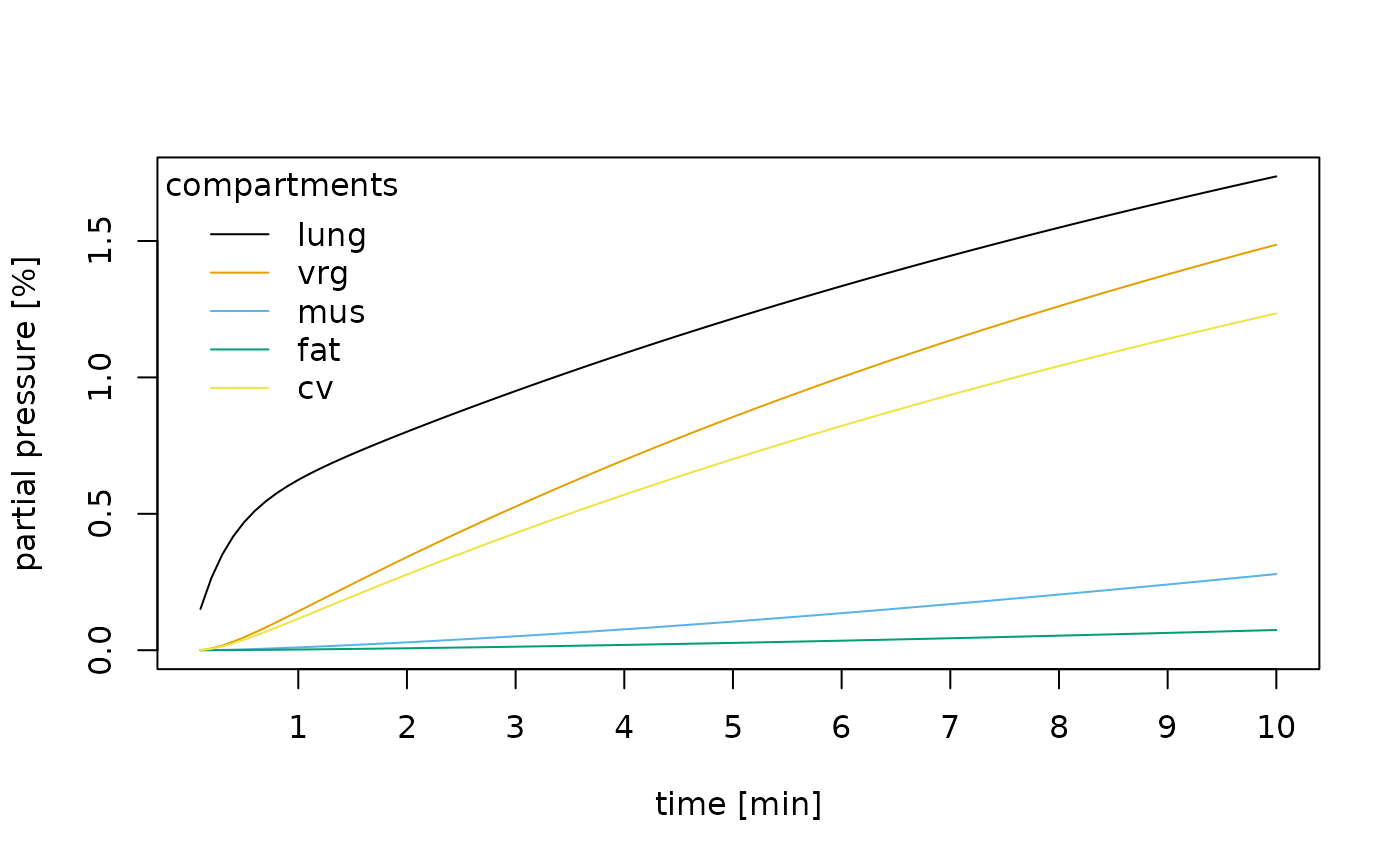
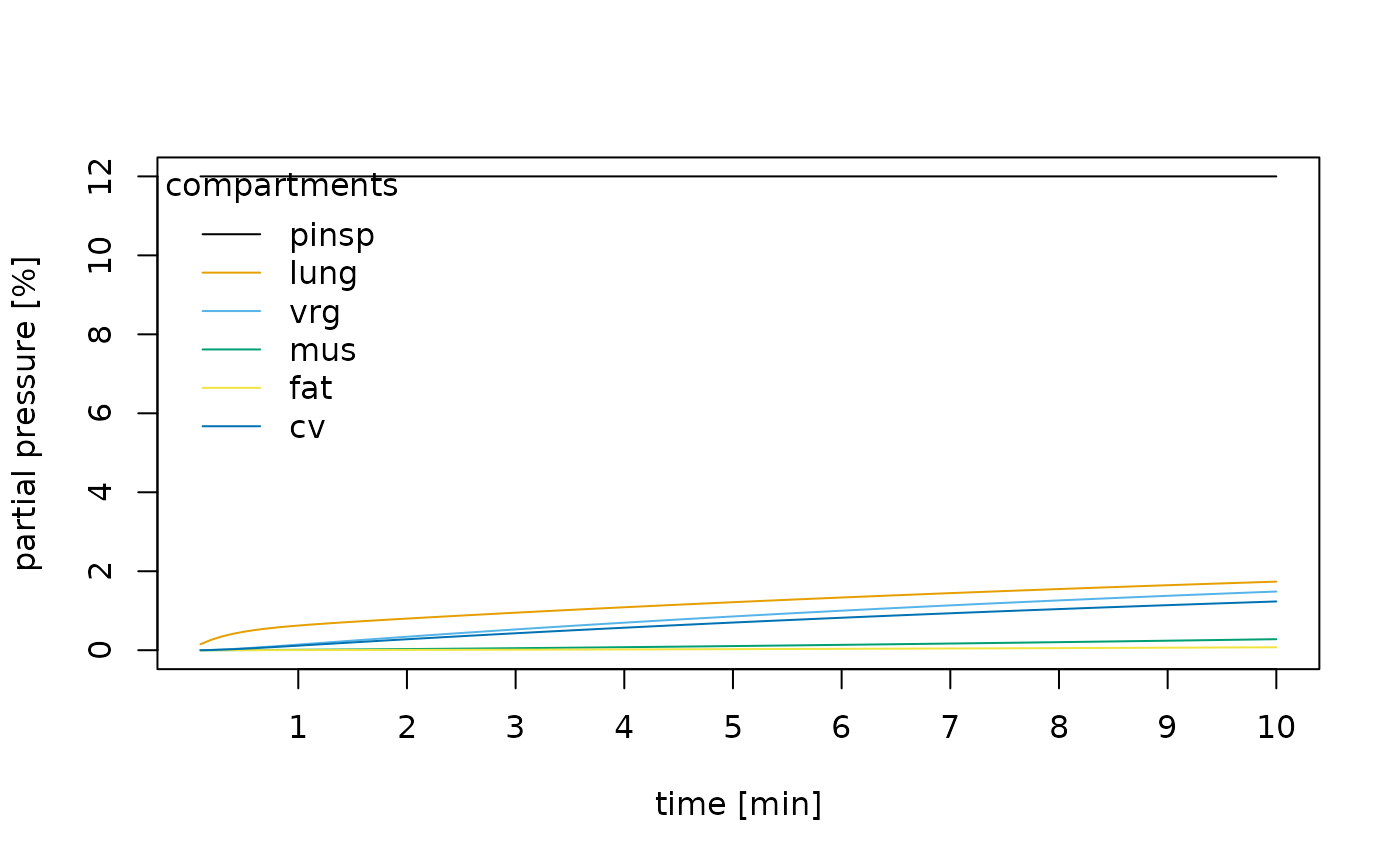
Deploying to gh-pages from @ umg-minai/simva@0970ec3c0ce319f65774e24ce439341b130f4246 🚀

diff --git a/articles/cowles1973.html b/articles/cowles1973.html
@@ -32,7 +32,7 @@
       </button>
       <span class="navbar-brand">
         <a class="navbar-link" href="../index.html">simva</a>
-        <span class="version label label-default" data-toggle="tooltip" data-placement="bottom" title="">0.0.1</span>
+        <span class="version label label-default" data-toggle="tooltip" data-placement="bottom" title="">0.0.2</span>
       </span>
     </div>
 
@@ -201,6 +201,7 @@ volume of the compartment.</p>
 <table class="table">
 <thead><tr class="header">
 <th align="right">time</th>
+<th align="right">pinsp</th>
 <th align="right">lung</th>
 <th align="right">vrg</th>
 <th align="right">mus</th>
@@ -210,6 +211,7 @@ volume of the compartment.</p>
 <tbody>
 <tr class="odd">
 <td align="right">0.1</td>
+<td align="right">12</td>
 <td align="right">0.1513241</td>
 <td align="right">0.0000000</td>
 <td align="right">0.0000000</td>
@@ -218,6 +220,7 @@ volume of the compartment.</p>
 </tr>
 <tr class="even">
 <td align="right">0.2</td>
+<td align="right">12</td>
 <td align="right">0.2644098</td>
 <td align="right">0.0063239</td>
 <td align="right">0.0004058</td>
@@ -226,6 +229,7 @@ volume of the compartment.</p>
 </tr>
 <tr class="odd">
 <td align="right">0.3</td>
+<td align="right">12</td>
 <td align="right">0.3501489</td>
 <td align="right">0.0171095</td>
 <td align="right">0.0011139</td>
@@ -234,6 +238,7 @@ volume of the compartment.</p>
 </tr>
 <tr class="even">
 <td align="right">0.4</td>
+<td align="right">12</td>
 <td align="right">0.4163194</td>
 <td align="right">0.0310274</td>
 <td align="right">0.0020500</td>
@@ -242,6 +247,7 @@ volume of the compartment.</p>
 </tr>
 <tr class="odd">
 <td align="right">0.5</td>
+<td align="right">12</td>
 <td align="right">0.4684761</td>
 <td align="right">0.0471289</td>
 <td align="right">0.0031610</td>
@@ -250,6 +256,7 @@ volume of the compartment.</p>
 </tr>
 <tr class="even">
 <td align="right">0.6</td>
+<td align="right">12</td>
 <td align="right">0.5105859</td>
 <td align="right">0.0647372</td>
 <td align="right">0.0044090</td>
@@ -301,6 +308,28 @@ volume of the compartment.</p>
 <span><span class="op">)</span></span></code></pre></div>
 </div>
 <div class="section level3">
+<h3 id="humidification">Humidification<a class="anchor" aria-label="anchor" href="#humidification"></a>
+</h3>
+<div class="sourceCode" id="cb10"><pre class="downlit sourceCode r">
+<code class="sourceCode R"><span><span class="va">hum</span> <span class="op">&lt;-</span> <span class="fu"><a href="../reference/sim_anaesthetic_uptake.html">sim_anaesthetic_uptake</a></span><span class="op">(</span></span>
+<span>    pinsp <span class="op">=</span> <span class="fl">12</span>, delta_time <span class="op">=</span> <span class="fl">0.1</span>, total_time <span class="op">=</span> <span class="fl">10</span>,</span>
+<span>    conductances <span class="op">=</span> <span class="va">conductances</span>,</span>
+<span>    capacitances <span class="op">=</span> <span class="va">capacitances</span>,</span>
+<span>    use_humidification <span class="op">=</span> <span class="cn">TRUE</span></span>
+<span><span class="op">)</span></span></code></pre></div>
+</div>
+<div class="section level3">
+<h3 id="concentration-effect">Concentration effect<a class="anchor" aria-label="anchor" href="#concentration-effect"></a>
+</h3>
+<div class="sourceCode" id="cb11"><pre class="downlit sourceCode r">
+<code class="sourceCode R"><span><span class="va">con</span> <span class="op">&lt;-</span> <span class="fu"><a href="../reference/sim_anaesthetic_uptake.html">sim_anaesthetic_uptake</a></span><span class="op">(</span></span>
+<span>    pinsp <span class="op">=</span> <span class="fl">12</span>, delta_time <span class="op">=</span> <span class="fl">0.1</span>, total_time <span class="op">=</span> <span class="fl">10</span>,</span>
+<span>    conductances <span class="op">=</span> <span class="va">conductances</span>,</span>
+<span>    capacitances <span class="op">=</span> <span class="va">capacitances</span>,</span>
+<span>    use_concentration_effect <span class="op">=</span> <span class="cn">TRUE</span></span>
+<span><span class="op">)</span></span></code></pre></div>
+</div>
+<div class="section level3">
 <h3 id="summary">Summary<a class="anchor" aria-label="anchor" href="#summary"></a>
 </h3>
 <table class="table">
@@ -310,6 +339,7 @@ Gillies (1973)</span>.</caption>
 <thead><tr class="header">
 <th align="left"></th>
 <th align="right">time</th>
+<th align="right">pinsp</th>
 <th align="right">lung</th>
 <th align="right">vrg</th>
 <th align="right">mus</th>
@@ -320,6 +350,7 @@ Gillies (1973)</span>.</caption>
 <tr class="odd">
 <td align="left">Normal</td>
 <td align="right">10</td>
+<td align="right">12.0</td>
 <td align="right">1.74</td>
 <td align="right">1.49</td>
 <td align="right">0.28</td>
@@ -327,8 +358,9 @@ Gillies (1973)</span>.</caption>
 <td align="right">1.23</td>
 </tr>
 <tr class="even">
-<td align="left">Increased Ventilation</td>
+<td align="left">Increased ventilation</td>
 <td align="right">10</td>
+<td align="right">12.0</td>
 <td align="right">3.11</td>
 <td align="right">2.70</td>
 <td align="right">0.51</td>
@@ -336,13 +368,34 @@ Gillies (1973)</span>.</caption>
 <td align="right">2.24</td>
 </tr>
 <tr class="odd">
-<td align="left">Decreased Cardiac Output</td>
+<td align="left">Decreased cardiac output</td>
 <td align="right">10</td>
+<td align="right">12.0</td>
 <td align="right">2.24</td>
 <td align="right">1.60</td>
 <td align="right">0.20</td>
 <td align="right">0.05</td>
 <td align="right">1.31</td>
+</tr>
+<tr class="even">
+<td align="left">Humidification</td>
+<td align="right">10</td>
+<td align="right">11.3</td>
+<td align="right">1.64</td>
+<td align="right">1.40</td>
+<td align="right">0.26</td>
+<td align="right">0.07</td>
+<td align="right">1.16</td>
+</tr>
+<tr class="odd">
+<td align="left">Concentration effect</td>
+<td align="right">10</td>
+<td align="right">12.0</td>
+<td align="right">1.91</td>
+<td align="right">1.64</td>
+<td align="right">0.31</td>
+<td align="right">0.08</td>
+<td align="right">1.36</td>
 </tr>
 </tbody>
 </table>

diff --git a/reference/sim_anaesthetic_uptake.html b/reference/sim_anaesthetic_uptake.html
@@ -17,7 +17,7 @@
       </button>
       <span class="navbar-brand">
         <a class="navbar-link" href="../index.html">simva</a>
-        <span class="version label label-default" data-toggle="tooltip" data-placement="bottom" title="">0.0.1</span>
+        <span class="version label label-default" data-toggle="tooltip" data-placement="bottom" title="">0.0.2</span>
       </span>
     </div>
 
@@ -68,7 +68,14 @@
 <span>  delta_time <span class="op">=</span> <span class="fl">0.1</span>,</span>
 <span>  total_time <span class="op">=</span> <span class="fl">10</span>,</span>
 <span>  <span class="va">conductances</span>,</span>
-<span>  <span class="va">capacitances</span></span>
+<span>  <span class="va">capacitances</span>,</span>
+<span>  use_humidification <span class="op">=</span> <span class="cn">FALSE</span>,</span>
+<span>  pambient <span class="op">=</span> <span class="fl">101.325</span>,</span>
+<span>  pwater <span class="op">=</span> <span class="fl">6.26</span>,</span>
+<span>  use_concentration_effect <span class="op">=</span> <span class="cn">FALSE</span>,</span>
+<span>  tp_factor <span class="op">=</span> <span class="fu"><a href="stp_factor.html">stp_factor</a></span><span class="op">(</span><span class="op">)</span>,</span>
+<span>  alveolar_minute_ventilation <span class="op">=</span> <span class="va">conductances</span><span class="op">[</span><span class="st">"lung"</span><span class="op">]</span><span class="op">/</span><span class="va">tp_factor</span>,</span>
+<span>  partial_pressures <span class="op">=</span> <span class="fu"><a href="https://rdrr.io/r/base/c.html" class="external-link">c</a></span><span class="op">(</span>pinsp <span class="op">=</span> <span class="va">pinsp</span>, lung <span class="op">=</span> <span class="fl">0</span>, vrg <span class="op">=</span> <span class="fl">0</span>, mus <span class="op">=</span> <span class="fl">0</span>, fat <span class="op">=</span> <span class="fl">0</span>, cv <span class="op">=</span> <span class="fl">0</span><span class="op">)</span></span>
 <span><span class="op">)</span></span></code></pre></div>
     </div>
 
@@ -94,6 +101,38 @@
 
 <dt id="arg-capacitances">capacitances<a class="anchor" aria-label="anchor" href="#arg-capacitances"></a></dt>
 <dd><p><code>numeric(4)</code>, capacitances.</p></dd>
+
+
+<dt id="arg-use-humidification">use_humidification<a class="anchor" aria-label="anchor" href="#arg-use-humidification"></a></dt>
+<dd><p><code>logical(1)</code>, should humification take into account
+(default: <code>FALSE</code>).</p></dd>
+
+
+<dt id="arg-pambient">pambient<a class="anchor" aria-label="anchor" href="#arg-pambient"></a></dt>
+<dd><p><code>numeric(1)</code>, ambient pressure in kPa.</p></dd>
+
+
+<dt id="arg-pwater">pwater<a class="anchor" aria-label="anchor" href="#arg-pwater"></a></dt>
+<dd><p><code>numeric(1)</code>, water pressure in kPa.</p></dd>
+
+
+<dt id="arg-use-concentration-effect">use_concentration_effect<a class="anchor" aria-label="anchor" href="#arg-use-concentration-effect"></a></dt>
+<dd><p><code>logical(1)</code>, should concentration effect
+take into account (default: <code>FALSE</code>).</p></dd>
+
+
+<dt id="arg-tp-factor">tp_factor<a class="anchor" aria-label="anchor" href="#arg-tp-factor"></a></dt>
+<dd><p><code>numeric</code>, temperature/pressure factor.</p></dd>
+
+
+<dt id="arg-alveolar-minute-ventilation">alveolar_minute_ventilation<a class="anchor" aria-label="anchor" href="#arg-alveolar-minute-ventilation"></a></dt>
+<dd><p><code>numeric(1)</code>, alveolar minute ventilation
+in l/min.</p></dd>
+
+
+<dt id="arg-partial-pressures">partial_pressures<a class="anchor" aria-label="anchor" href="#arg-partial-pressures"></a></dt>
+<dd><p><code>logical(1)</code>, initial partial pressures
+settings to start with.</p></dd>
 
 </dl></div>
     <div id="value">

diff --git a/news/index.html b/news/index.html
@@ -17,7 +17,7 @@
       </button>
       <span class="navbar-brand">
         <a class="navbar-link" href="../index.html">simva</a>
-        <span class="version label label-default" data-toggle="tooltip" data-placement="bottom" title="">0.0.1</span>
+        <span class="version label label-default" data-toggle="tooltip" data-placement="bottom" title="">0.0.2</span>
       </span>
     </div>
 
@@ -63,8 +63,13 @@
 <h3 id="changes-in-development-version-0-0">Changes in development version<a class="anchor" aria-label="anchor" href="#changes-in-development-version-0-0"></a></h3>
 </div>
 <div class="section level3">
-<h3 id="changes-in-0-0">Changes in 0.0.1<a class="anchor" aria-label="anchor" href="#changes-in-0-0"></a></h3>
-<ul><li>Initial version</li>
+<h3 id="changes-in-0-0">Changes in 0.0.2<a class="anchor" aria-label="anchor" href="#changes-in-0-0"></a></h3>
+<ul><li>Add humidification.</li>
+<li>Add concentration effect.</li>
+</ul></div>
+<div class="section level3">
+<h3 id="changes-in-0-0-1">Changes in 0.0.1<a class="anchor" aria-label="anchor" href="#changes-in-0-0-1"></a></h3>
+<ul><li>Initial version.</li>
 </ul></div>
 </div>
   </div>

diff --git a/authors.html b/authors.html
@@ -17,7 +17,7 @@
       </button>
       <span class="navbar-brand">
         <a class="navbar-link" href="index.html">simva</a>
-        <span class="version label label-default" data-toggle="tooltip" data-placement="bottom" title="">0.0.1</span>
+        <span class="version label label-default" data-toggle="tooltip" data-placement="bottom" title="">0.0.2</span>
       </span>
     </div>
 
@@ -73,13 +73,13 @@
 
     <p>Gibb S (2025).
 <em>simva: Simulate Volatile Anaesthetic Uptake and Distribution</em>.
-R package version 0.0.1, <a href="https://github.com/umg-minai/simva/" class="external-link">https://github.com/umg-minai/simva/</a>.
+R package version 0.0.2, <a href="https://github.com/umg-minai/simva/" class="external-link">https://github.com/umg-minai/simva/</a>.
 </p>
     <pre>@Manual{,
   title = {simva: Simulate Volatile Anaesthetic Uptake and Distribution},
   author = {Sebastian Gibb},
   year = {2025},
-  note = {R package version 0.0.1},
+  note = {R package version 0.0.2},
   url = {https://github.com/umg-minai/simva/},
 }</pre>
 

diff --git a/reference/capacitance.html b/reference/capacitance.html
@@ -18,7 +18,7 @@ ant any given partial pressure."><!-- mathjax --><script src="https://cdnjs.clou
       </button>
       <span class="navbar-brand">
         <a class="navbar-link" href="../index.html">simva</a>
-        <span class="version label label-default" data-toggle="tooltip" data-placement="bottom" title="">0.0.1</span>
+        <span class="version label label-default" data-toggle="tooltip" data-placement="bottom" title="">0.0.2</span>
       </span>
     </div>
 

diff --git a/reference/conductance.html b/reference/conductance.html
@@ -18,7 +18,7 @@ across a partial pressure gradient."><!-- mathjax --><script src="https://cdnjs.
       </button>
       <span class="navbar-brand">
         <a class="navbar-link" href="../index.html">simva</a>
-        <span class="version label label-default" data-toggle="tooltip" data-placement="bottom" title="">0.0.1</span>
+        <span class="version label label-default" data-toggle="tooltip" data-placement="bottom" title="">0.0.2</span>
       </span>
     </div>
 

diff --git a/reference/simva.html b/reference/simva.html
@@ -18,7 +18,7 @@ anaesthetics described in Cowles et al. 1973."><!-- mathjax --><script src="http
       </button>
       <span class="navbar-brand">
         <a class="navbar-link" href="../index.html">simva</a>
-        <span class="version label label-default" data-toggle="tooltip" data-placement="bottom" title="">0.0.1</span>
+        <span class="version label label-default" data-toggle="tooltip" data-placement="bottom" title="">0.0.2</span>
       </span>
     </div>
 

diff --git a/articles/index.html b/articles/index.html
@@ -17,7 +17,7 @@
       </button>
       <span class="navbar-brand">
         <a class="navbar-link" href="../index.html">simva</a>
-        <span class="version label label-default" data-toggle="tooltip" data-placement="bottom" title="">0.0.1</span>
+        <span class="version label label-default" data-toggle="tooltip" data-placement="bottom" title="">0.0.2</span>
       </span>
     </div>
 

diff --git a/reference/cardiac_output.html b/reference/cardiac_output.html
@@ -17,7 +17,7 @@
       </button>
       <span class="navbar-brand">
         <a class="navbar-link" href="../index.html">simva</a>
-        <span class="version label label-default" data-toggle="tooltip" data-placement="bottom" title="">0.0.1</span>
+        <span class="version label label-default" data-toggle="tooltip" data-placement="bottom" title="">0.0.2</span>
       </span>
     </div>
 

diff --git a/reference/index.html b/reference/index.html
@@ -17,7 +17,7 @@
       </button>
       <span class="navbar-brand">
         <a class="navbar-link" href="../index.html">simva</a>
-        <span class="version label label-default" data-toggle="tooltip" data-placement="bottom" title="">0.0.1</span>
+        <span class="version label label-default" data-toggle="tooltip" data-placement="bottom" title="">0.0.2</span>
       </span>
     </div>
 

diff --git a/reference/stp_factor.html b/reference/stp_factor.html
@@ -17,7 +17,7 @@
       </button>
       <span class="navbar-brand">
         <a class="navbar-link" href="../index.html">simva</a>
-        <span class="version label label-default" data-toggle="tooltip" data-placement="bottom" title="">0.0.1</span>
+        <span class="version label label-default" data-toggle="tooltip" data-placement="bottom" title="">0.0.2</span>
       </span>
     </div>
 

diff --git a/reference/tissue_coefficients.html b/reference/tissue_coefficients.html
@@ -17,7 +17,7 @@
       </button>
       <span class="navbar-brand">
         <a class="navbar-link" href="../index.html">simva</a>
-        <span class="version label label-default" data-toggle="tooltip" data-placement="bottom" title="">0.0.1</span>
+        <span class="version label label-default" data-toggle="tooltip" data-placement="bottom" title="">0.0.2</span>
       </span>
     </div>
 
